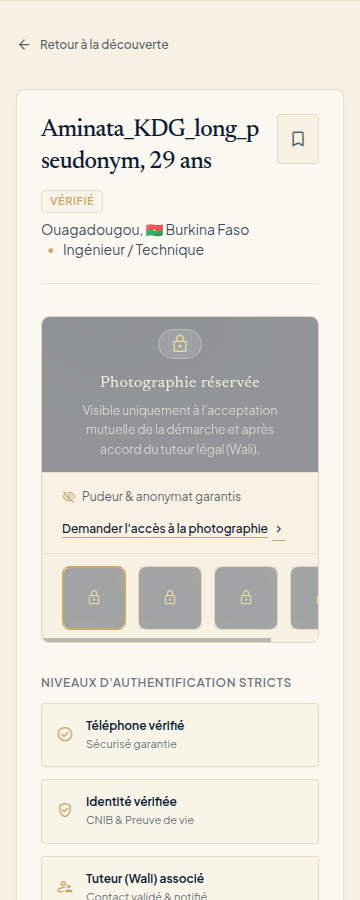
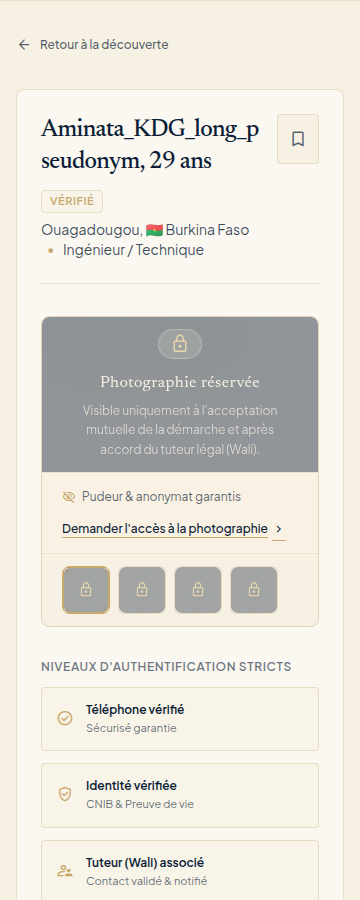
Keep every earned profile photo, PIN lock, and browse refusal on the real path.
A non-listable viewer is refused before a browse slot is taken, a locked sister is sent to the PIN page, the intention keeps its guillemets, and the four thumbnails wrap instead of scrolling inside the card.

Changed region(s): [[0.0917, 0.6222, 0.8861, 1.0]]

diff --git a/code/apps/web/src/profile-detail.ts b/code/apps/web/src/profile-detail.ts
@@ -1,3 +1,4 @@
+import { pinGuardScript } from './pin-guard'
 import { prepareV2 } from './v2-document'
 
 export type ProfileDetailPhoto = {
@@ -97,6 +98,7 @@ const TIMEFRAME: Record<string, string> = {
   serene: "Plus d'un an / Selon cheminement",
 }
 
+const THUMB_SIZE = 'relative min-w-0 w-12 h-12 min-[768px]:w-20 min-[768px]:h-20 rounded-md overflow-hidden'
 const GALLERY_SCRIPT = `document.querySelectorAll('[data-photo-src]').forEach(function (button) {
   button.addEventListener('click', function () {
     var hero = document.getElementById('profile-hero')
@@ -104,8 +106,8 @@ const GALLERY_SCRIPT = `document.querySelectorAll('[data-photo-src]').forEach(fu
     if (hero && src) hero.setAttribute('src', src)
     document.querySelectorAll('[data-photo-src]').forEach(function (item) {
       item.className = item === button
-        ? 'relative shrink-0 w-16 h-16 sm:w-20 sm:h-20 rounded-md overflow-hidden border-2 border-soft-gold bg-deep-navy/5 group cursor-pointer focus:outline-none'
-        : 'relative shrink-0 w-16 h-16 sm:w-20 sm:h-20 rounded-md overflow-hidden border border-hairline/80 hover:border-soft-gold bg-deep-navy/5 group cursor-pointer transition-colors focus:outline-none'
+        ? '${THUMB_SIZE} border-2 border-soft-gold bg-deep-navy/5 group cursor-pointer focus:outline-none'
+        : '${THUMB_SIZE} border border-hairline/80 hover:border-soft-gold bg-deep-navy/5 group cursor-pointer transition-colors focus:outline-none'
     })
   })
 })`
@@ -231,7 +233,7 @@ function thumb(photo: ProfileDetailPhoto, index: number, blurred: boolean, curre
     '<button aria-label="Afficher la photographie ' +
     String(index + 1) +
     currentLabel +
-    '" class="relative shrink-0 w-16 h-16 sm:w-20 sm:h-20 rounded-md overflow-hidden ' +
+    '" class="' + THUMB_SIZE + ' ' +
     border +
     ' bg-deep-navy/5 group cursor-pointer focus:outline-none" data-photo-src="' +
     escapeHtml(photo.url) +
@@ -268,9 +270,9 @@ function applyPhotos(html: string, view: ProfileDetailView): string {
   }
   const thumbs = view.photos.map((photo, index) => thumb(photo, index, blurred, photo === main)).join('')
   const open = '<div class="px-5 py-3.5 bg-cream/60 border-t border-hairline/50 overflow-x-auto flex gap-3 pb-3 pt-3">'
-  const widened =
-    '<div class="px-5 py-3.5 bg-cream/60 border-t border-hairline/50 overflow-x-auto flex gap-3 pb-3 pt-3 min-w-0 max-w-full">'
-  return replaceDivInner(next, open, thumbs).replace(open, widened)
+  const wrapped =
+    '<div class="px-5 py-3.5 bg-cream/60 border-t border-hairline/50 flex flex-wrap gap-2 min-[768px]:gap-3 pb-3 pt-3 min-w-0 max-w-full">'
+  return replaceDivInner(next, open, thumbs).replace(open, wrapped)
 }
 
 function applyFields(html: string, view: ProfileDetailView): string {
@@ -330,8 +332,9 @@ function applyFields(html: string, view: ProfileDetailView): string {
     next = next.replace(
       /<blockquote class="font-display italic text-base sm:text-lg text-deep-navy leading-relaxed">[\s\S]*?<\/blockquote>/,
       '<blockquote class="font-display italic text-base sm:text-lg text-deep-navy leading-relaxed">' +
+        '« ' +
         escapeHtml(intention) +
-        '</blockquote>',
+        ' »</blockquote>',
     )
   }
   return next
@@ -394,5 +397,7 @@ export function profileDetailHtml(stitch: string, view: ProfileDetailView): stri
   html = applyLevels(html, view)
   html = applyFields(html, view)
   html = applyPhotos(html, view)
-  return prepareV2(html, view.photos.length > 0 ? GALLERY_SCRIPT : '')
+  const page = prepareV2(html, view.photos.length > 0 ? GALLERY_SCRIPT : '')
+  const guard = pinGuardScript()
+  return page.includes('</body>') ? page.replace('</body>', `${guard}</body>`) : `${page}${guard}`
 }

diff --git a/code/apps/web/src/profile-detail.test.ts b/code/apps/web/src/profile-detail.test.ts
@@ -47,7 +47,11 @@ describe('screen 15 public profile', () => {
     expect(html).toContain('>Non<')
     expect(html).toContain("Shafi'i")
     expect(html).toContain("Prières à l'heure")
-    expect(html).toContain('Union stable')
+    expect(html).toContain('« Union stable »')
+    expect(html).toContain('flex flex-wrap')
+    expect(html).toContain('w-12 h-12')
+    expect(html).not.toContain('overflow-x-auto')
+    expect(html).toContain('/v1/pin')
     expect(html).toContain('href="/decouvrir"')
     expect(html).toContain('/v1/media/get?token=main')
     expect(html).toContain("Demander l'accès à la photographie")
@@ -140,5 +144,44 @@ describe('screen 15 public profile', () => {
     })
     expect(web.status).toBe(401)
     expect(await web.json()).toMatchObject({ error: { code: 'UNAUTHENTICATED' } })
+  })
+
+  it('sends a locked sister to the PIN page', async () => {
+    const original = globalThis.fetch
+    globalThis.fetch = (async (input: RequestInfo | URL) => {
+      const url = String(input)
+      if (url.endsWith('/v1/accounts/gate')) {
+        return new Response(JSON.stringify({ step: 'account' }), {
+          status: 200,
+          headers: { 'content-type': 'application/json' },
+        })
+      }
+      return new Response(
+        JSON.stringify({
+          error: {
+            code: 'PIN_REQUIRED',
+            message: 'Code PIN requis.',
+            details: null,
+            request_id: 'pin-test',
+            retryable: false,
+          },
+        }),
+        { status: 401, headers: { 'content-type': 'application/json' } },
+      )
+    }) as typeof fetch
+    try {
+      const response = await GET(
+        new Request('http://127.0.0.1/profil/01990000-0000-7000-8000-000000000099', {
+          headers: { cookie: 'ankanu_session=01990000-0000-7000-8000-000000000010' },
+        }),
+        { params: Promise.resolve({ id: '01990000-0000-7000-8000-000000000099' }) },
+      )
+      expect(response.status).toBe(303)
+      expect(response.headers.get('location')).toBe(
+        'http://127.0.0.1/pin?next=%2Fprofil%2F01990000-0000-7000-8000-000000000099',
+      )
+    } finally {
+      globalThis.fetch = original
+    }
   })
 })

diff --git a/code/apps/api/src/public-profile.ts b/code/apps/api/src/public-profile.ts
@@ -197,18 +197,18 @@ export async function readPublicProfile(
     return failure(403, 'FORBIDDEN', 'Une session mahram ne peut pas ouvrir cet espace.', { reason: 'mahram_session' }, false)
   }
 
+  const viewerAccount = await loadAccount(viewer.account_id)
+  const viewerProfile = await getProfileStore().read(viewer.account_id)
+  if (!viewerAccount || !isListableProfile(viewerProfile?.visibility ?? null, viewerAccount.status)) {
+    return failure(403, 'FORBIDDEN', VIEWER_NOT_LISTABLE, { reason: 'viewer_not_listable' }, false)
+  }
+
   const limit = await readRlBrowsePerMin()
   if (limit === null) {
     return failure(500, 'UNHANDLED', 'Request failed', null, false)
   }
   if (!takeBrowseSlot(viewer.account_id, limit)) {
     return failure(429, 'RATE_LIMITED', RATE_MESSAGE, null, true)
-  }
-
-  const viewerAccount = await loadAccount(viewer.account_id)
-  const viewerProfile = await getProfileStore().read(viewer.account_id)
-  if (!viewerAccount || !isListableProfile(viewerProfile?.visibility ?? null, viewerAccount.status)) {
-    return failure(403, 'FORBIDDEN', VIEWER_NOT_LISTABLE, { reason: 'viewer_not_listable' }, false)
   }
 
   if (!isUuidV7(targetId) || targetId === viewer.account_id) {

diff --git a/code/apps/api/src/public-profile.test.ts b/code/apps/api/src/public-profile.test.ts
@@ -196,6 +196,7 @@ describe('public profile read', () => {
   }
 
   function grant(accountId: string, kind: 'phone_otp' | 'liveness' | 'id_document', status: 'pending' | 'granted' | 'rejected'): void {
+    now = new Date(now.getTime() + 1)
     const id = newId(now)
     if (kind === 'phone_otp') {
       const row: PhoneOtpRow = {
@@ -373,8 +374,17 @@ describe('public profile read', () => {
     const sisterCookie = await signIn(sister.email)
     const brotherCookie = await signIn(brother.email)
     await publish(brother.id, brotherCookie)
+    setBrowseLimitReader(async () => 1)
+    resetAuthRateWindow()
     const unpublished = await read(sisterCookie, brother.id)
+    const unpublishedAgain = await read(sisterCookie, brother.id)
     expect(unpublished.status).toBe(403)
+    expect(unpublishedAgain.status).toBe(403)
+    expect(await unpublishedAgain.json()).toMatchObject({
+      error: { code: 'FORBIDDEN', details: { reason: 'viewer_not_listable' } },
+    })
+    setBrowseLimitReader(async () => 1000)
+    resetAuthRateWindow()
     expect(await unpublished.json()).toMatchObject({
       error: {
         code: 'FORBIDDEN',

diff --git a/code/apps/web/src/v2-responsive.test.ts b/code/apps/web/src/v2-responsive.test.ts
@@ -384,11 +384,15 @@ const FIT = `(() => {
   const bad = []
   for (const el of document.body.querySelectorAll('*')) {
     const rect = el.getBoundingClientRect()
+    const overflowX = getComputedStyle(el).overflowX
+    if ((overflowX === 'auto' || overflowX === 'scroll') && el.scrollWidth > el.clientWidth + 1) {
+      bad.push((el.id || el.tagName) + ' overflow-x ' + el.scrollWidth + '>' + el.clientWidth)
+    }
     if (rect.width < 1 || rect.height < 1) continue
     if (rect.right > width + 1 || rect.left < -1) {
       bad.push((el.id || el.tagName) + ' ' + Math.round(rect.left) + '..' + Math.round(rect.right))
-      if (bad.length === 8) break
     }
+    if (bad.length >= 8) break
   }
   return { width, scrollWidth, bad }
 })()`

diff --git a/code/apps/web/src/v2-serve.ts b/code/apps/web/src/v2-serve.ts
@@ -328,6 +328,13 @@ export async function profileDetailResponse(request: Request, id: string): Promi
   if (response.status === 200 && isProfileDetailView(payload)) {
     return htmlResponse(profileDetailHtml(stitchFile('15-profile-detail'), payload))
   }
+  const code =
+    typeof payload === 'object' && payload !== null && 'error' in payload
+      ? (payload as { error?: { code?: string } }).error?.code
+      : undefined
+  if (code === 'PIN_REQUIRED') {
+    return redirectTo(request, `/pin?next=${encodeURIComponent(`/profil/${id}`)}`)
+  }
   if (response.status === 404) {
     return redirectTo(request, '/decouvrir')
   }

diff --git a/code/docs/qa-handoffs/epic-3-3.7-qa-handoff.md b/code/docs/qa-handoffs/epic-3-3.7-qa-handoff.md
@@ -42,14 +42,14 @@ On a running API and web app, sign in as a listable member and open `/profil/<ot
 | No session | `GET /v1/profiles/:id` with no cookie | 401 `UNAUTHENTICATED`, `retryable` false, `Cache-Control: no-store` |
 | Staff | Viewer roles are `moderator` or `operator` | 403 `FORBIDDEN`, `details.reason` `staff_session`, message `Cette session d'équipe ne peut pas ouvrir un espace membre.` |
 | Mahram | Viewer has no `member` role | 403 `FORBIDDEN`, `details.reason` `mahram_session`, message `Une session mahram ne peut pas ouvrir cet espace.` |
-| Viewer not listable | Viewer profile is not public, or the account is not `Active` | 403 `FORBIDDEN`, `details.reason` `viewer_not_listable`, message `Votre profil doit être validé avant de consulter d'autres profils.` Web redirects 303 to `/profile-edit` |
+| Viewer not listable | Viewer profile is not public, or the account is not `Active`. Even when `rl_browse_per_min` is 1 | 403 `FORBIDDEN`, `details.reason` `viewer_not_listable`, message `Votre profil doit être validé avant de consulter d'autres profils.` A second read is the same 403, not 429. Web redirects 303 to `/profile-edit` |
 | Hidden target | Not a uuid, unknown id, self, same gender, no member role, unpublished, held, `emergency_hidden`, deactivated, pending deletion | One 404 body: `NOT_FOUND`, message `Ce profil n'est pas disponible.`, `details` null, `retryable` false. Bodies match apart from `request_id`. Web redirects 303 to `/decouvrir` |
 | Phone only | Latest `phone_otp` is `granted`. ID or liveness is pending, held, or rejected | `verification` `{ phone: true, id: false, mahram: false }`. Screen shows « Téléphone vérifié / Sécurisé garantie » only. No « Vérifié » chip |
 | Identity | Latest `id_document` and `liveness` are both `granted` | `verification.id` true. Screen shows « Identité vérifiée / CNIB & Preuve de vie » and the « Vérifié » chip |
 | Mahram stub | Sister target, default port | `verification.mahram` false. No wali row |
 | Mahram port | Test sets `verifiedWali` true. Sister target | Wali row « Tuteur (Wali) associé / Contact validé & notifié ». A brother stays false |
 | Premium | Target would be entitled | No premium, plan, or entitlement field. The read does not call `BillingPort` |
-| Fields | Profile columns | JSON uses the stored tokens. Null stays null. The page uses the screen 11 French labels and omits a null row. `dob` is not returned. Age is completed years. `life_plans` after `tf:…` feeds « Intention de mariage & Vision du foyer » |
+| Fields | Profile columns | JSON uses the stored tokens. Null stays null. The page uses the screen 11 French labels and omits a null row. `dob` is not returned. Age is completed years. `life_plans` after `tf:…` feeds « Intention de mariage & Vision du foyer ». The blockquote keeps the guillemets around the real text: `« ` + text + ` »` |
 | Photos | Live photos, `photo_blur` true | Blur URLs only, MAIN first, then other live photos by id. Pending, blocked, and replaced are absent. `original` is not signed |
 | Clear photos | `photo_blur` false and an `md` derivative exists | Clear `md` URL. The lock overlay and « Demander l'accès à la photographie » are absent |
 | Missing clear file | `photo_blur` false and no `md` derivative | 503 `UNHANDLED`, message `Request failed`. The code is not `REVEAL_DENIED` |
@@ -58,7 +58,9 @@ On a running API and web app, sign in as a listable member and open `/profil/<ot
 | Back | « Retour à la découverte » | `href="/decouvrir"` |
 | Stubs | Web cookie `staff`, `mahram`, `web`, `capacitor` on `/profil/:id` | Same JSON as the other member paths. Mahram is 403 on this path. `/profil` without an id is unchanged |
 | Anon | No cookie on `/profil/:id` | 303 to `/auth` |
-| Widths | Phone-only and identity+wali, four photos, long name | 360, 390, 768, 1024, 1280, 1440. `scrollWidth <= innerWidth` |
+| PIN lock | Profile read returns 401 `PIN_REQUIRED` | Web 303 to `/pin`. The rendered page mounts the same PIN guard as the other member pages, so an idle lock still leaves the screen |
+| Thumbnails | Four live photos | The strip wraps. It is not an `overflow-x` scroller. All four thumbs stay on the page at 360 and 390 |
+| Widths | Phone-only and identity+wali, four photos, long name | 360, 390, 768, 1024, 1280, 1440. `documentElement.scrollWidth <= innerWidth`, and no element with `overflow-x: auto` or `scroll` has `scrollWidth > clientWidth` |
 
 ## Test data
 
@@ -68,17 +70,16 @@ Direct URL only. This story adds no card, grid, favourite, or invite link.
 
 ## My results
 
-- `public-profile.test.ts`: 5 passed. Phone-only then identity. Brother mahram stays false while a stubbed sister wali is true. Eight hidden targets share one 404 body. Staff, mahram, and a non-listable viewer are the three 403 reasons. Live MAIN is listed, the pending photo is not, clear `md` is served when blur is off, a missing `md` is 503 without `REVEAL_DENIED`, the 61st conceptual slot at limit 1 is 429, and a missing cookie is 401. `billingCalls` stayed 0.
-- `profile-detail.test.ts`: 4 passed. Sample strings are gone. Phone-only has no identity row and no « Vérifié » chip. Null rows are omitted. A clear photo drops the lock and the access button.
-- `v2-flow.test.ts`: passed, including `/profil/:id` to `/auth` when anonymous, stay when the gate step is `account`, and the email step otherwise.
-- `v2-responsive.test.ts` scrollWidth check: passed, including `16-profile-detail` and `16b-profile-phone`.
+- `public-profile.test.ts`: 5 passed. Phone-only then identity. Brother mahram stays false while a stubbed sister wali is true. Eight hidden targets share one 404 body. Staff, mahram, and a non-listable viewer are the three 403 reasons. Two reads by an unpublished viewer at browse limit 1 are both 403 `viewer_not_listable`. Live MAIN is listed, the pending photo is not, clear `md` is served when blur is off, a missing `md` is 503 without `REVEAL_DENIED`, the second listable read at limit 1 is 429, and a missing cookie is 401. `billingCalls` stayed 0.
+- `profile-detail.test.ts`: 5 passed. Sample strings are gone. Phone-only has no identity row and no « Vérifié » chip. The intention blockquote is `« Union stable »`. The thumb strip is `flex-wrap` and has no `overflow-x-auto`. The page includes the PIN guard. A `PIN_REQUIRED` profile response is 303 to `/pin`. Null rows are omitted. A clear photo drops the lock and the access button.
+- `v2-responsive.test.ts`: 2 passed, including `16-profile-detail` and `16b-profile-phone` (four photos, long name) at 360, 390, 768, 1024, 1280, and 1440. The check now fails an inner `overflow-x` scroller as well as document overflow.
 - `tsc -p apps/api/tsconfig.json --noEmit` and `tsc -p apps/web/tsconfig.json --noEmit`: exit 0.
 
 ## Three validation passes
 
 1. Behavior: the read matches the board catalogue on [ANK-121](/ANK/issues/ANK-121). One 404 body. No billing call. No mahram table. No level that was not granted.
 2. Screen: `15-profile-detail` filled from the API. One real state. No state tab, demo toggle, annotation, gallery of samples, or sample name.
-3. Widths: Chrome checks the identity page and the phone-only page with the other v2 screens at 360, 390, 768, 1024, 1280, and 1440.
+3. Widths: Chrome checks the identity page and the phone-only page, each with four photos, with the other v2 screens at 360, 390, 768, 1024, 1280, and 1440. An inner horizontal scroller fails the same check.
 
 ## Solution-design sections
 
